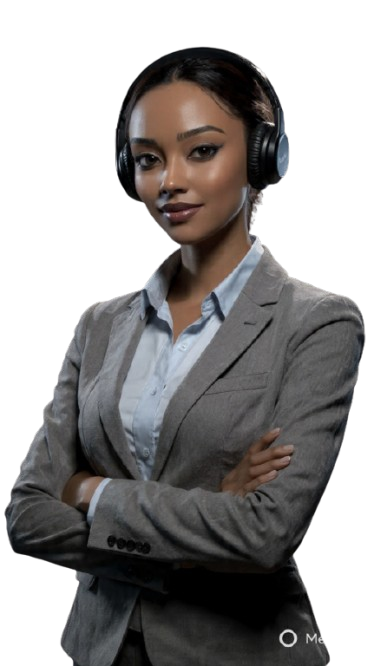
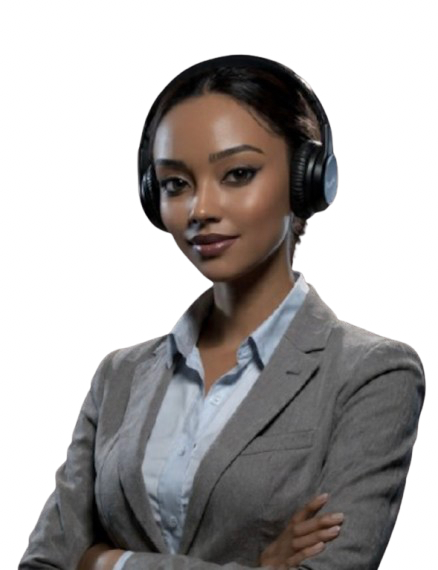
Fixed Ziva FBA image

diff --git a/frontend/src/app/product/[id]/page.tsx b/frontend/src/app/product/[id]/page.tsx
@@ -1676,50 +1676,51 @@ export default function ProductDetailPage() {
                     </div>
                 )}
 
-                {/* Similar Products */}
-                {similarProducts.length > 0 && (
+                <div className="mt-12 mb-8 space-y-12">
+                    <RecommendedProducts
+                        products={similarProducts.length > 0 ? similarProducts : allProducts.filter(p => p.id !== product?.id).slice(0, 4)}
+                        title="Similar Items in this Category"
+                        subtitle="Compare with related products"
+                        icon={<Zap className="h-5 w-5 text-ratel-orange" />}
+                    />
+                    <div className="flex justify-center mt-2 flex-col items-center w-full">
+                        {loadedMore && (
+                            <div className="grid grid-cols-2 md:grid-cols-3 xl:grid-cols-4 gap-4 md:gap-6 w-full mt-4 mb-4">
+                                {Array.from({ length: visibleProductsCount }).map((_, i) => {
+                                    // Filter extra products excluding similar products to prevent adjacent duplicates
+                                    const extraProducts = allProducts.filter(p => p.id !== product?.id && !similarProducts.some(s => s.id === p.id));
+
+                                    // If extraProducts is empty, fallback to similar products, or just allProducts
+                                    const sourceProducts = extraProducts.length > 0 ? extraProducts : allProducts;
+
+                                    const item = sourceProducts[i % sourceProducts.length];
+                                    return (
+                                        <div key={`${item.id}-${i}`} className="h-full">
+                                            <SearchGridCard product={item} />
+                                        </div>
+                                    );
+                                })}
+                            </div>
+                        )}
+
+                        <Button
+                            variant="outline"
+                            className="rounded-full justify-center items-center px-8 py-4 text-sm font-bold text-gray-700 hover:text-black hover:bg-gray-50 border-gray-200 hover:border-gray-300 shadow-sm transition-all"
+                            onClick={() => {
+                                if (!loadedMore) {
+                                    setLoadedMore(true);
+                                } else {
+                                    setVisibleProductsCount(prev => prev + 8);
+                                }
+                            }}
+                        >
+                            VIEW MORE <ChevronDown className="h-4 w-4 ml-2" />
+                        </Button>
+                    </div>
+                </div>
+
+                {alsoBoughtProducts.length > 0 && (
                     <div className="mt-12 mb-8 space-y-12">
-                        <RecommendedProducts
-                            products={similarProducts}
-                            title="Similar Items in this Category"
-                            subtitle="Compare with related products"
-                            icon={<Zap className="h-5 w-5 text-ratel-orange" />}
-                        />
-                        <div className="flex justify-center mt-2 flex-col items-center w-full">
-                            {loadedMore && (
-                                <div className="grid grid-cols-2 md:grid-cols-3 xl:grid-cols-4 gap-4 md:gap-6 w-full mt-4 mb-4">
-                                    {Array.from({ length: visibleProductsCount }).map((_, i) => {
-                                        // Filter extra products excluding similar products to prevent adjacent duplicates
-                                        const extraProducts = allProducts.filter(p => p.id !== product?.id && !similarProducts.some(s => s.id === p.id));
-
-                                        // If extraProducts is empty, fallback to similar products, or just allProducts
-                                        const sourceProducts = extraProducts.length > 0 ? extraProducts : allProducts;
-
-                                        const item = sourceProducts[i % sourceProducts.length];
-                                        return (
-                                            <div key={`${item.id}-${i}`} className="h-full">
-                                                <SearchGridCard product={item} />
-                                            </div>
-                                        );
-                                    })}
-                                </div>
-                            )}
-
-                            <Button
-                                variant="outline"
-                                className="rounded-full justify-center items-center px-8 py-4 text-sm font-bold text-gray-700 hover:text-black hover:bg-gray-50 border-gray-200 hover:border-gray-300 shadow-sm transition-all"
-                                onClick={() => {
-                                    if (!loadedMore) {
-                                        setLoadedMore(true);
-                                    } else {
-                                        setVisibleProductsCount(prev => prev + 8);
-                                    }
-                                }}
-                            >
-                                VIEW MORE <ChevronDown className="h-4 w-4 ml-2" />
-                            </Button>
-                        </div>
-
                         <RecommendedProducts
                             products={alsoBoughtProducts.slice(0, visibleCABCount)}
                             title="Customers Also Bought"
@@ -1739,15 +1740,17 @@ export default function ProductDetailPage() {
                                 </Button>
                             </div>
                         )}
-
-                        {/* You May Also Like — more products from the same or related categories */}
-                        <YouMayAlsoLike
-                            cartCategories={product?.category ? [product.category] : []}
-                            cartIds={new Set([product?.id].filter(Boolean) as string[])}
-                            title="You May Also Like"
-                        />
                     </div>
                 )}
+
+                <div className="mt-12 mb-8 space-y-12">
+                    {/* You May Also Like — more products from the same or related categories */}
+                    <YouMayAlsoLike
+                        cartCategories={product?.category ? [product.category] : []}
+                        cartIds={new Set([product?.id].filter(Boolean) as string[])}
+                        title="You May Also Like"
+                    />
+                </div>
 
                 <NegotiationModal
                     isOpen={isNegotiationOpen}

diff --git a/frontend/src/app/category/[slug]/page.tsx b/frontend/src/app/category/[slug]/page.tsx
@@ -11,6 +11,7 @@ import { Navbar } from "@/components/layout/Navbar";
 import { Footer } from "@/components/layout/Footer";
 import Link from "next/link";
 import { cn } from "@/lib/utils";
+import { YouMayAlsoLike } from "@/components/product/YouMayAlsoLike";
 
 const MIN_PRICE = 0;
 const MAX_PRICE = 2000000;
@@ -228,6 +229,13 @@ export default function CategoryPage() {
                             </div>
                         </div>
                     )}
+
+                    <div className="mt-16 mb-8">
+                        <YouMayAlsoLike
+                            cartCategories={slug !== 'all' && slug !== 'verified' ? [slug] : []}
+                            title="More Suggestions For You"
+                        />
+                    </div>
                 </div>
             </main>
 

diff --git a/frontend/src/components/modals/NegotiationModal.tsx b/frontend/src/components/modals/NegotiationModal.tsx
@@ -35,9 +35,9 @@ export function NegotiationModal({ isOpen, onClose, product, priceComparison }: 
     const { startConversation, openMessageBox } = useMessages();
 
     // Max negotiation discount — admin-configurable via SystemSettings.
-    // Default: 10% means users cannot offer less than 90% of the listing price.
+    // Default: 5% means users cannot offer less than 95% of the listing price.
     const maxDiscountPct = (typeof window !== "undefined" && localStorage.getItem("fp_max_negotiation_discount"))
-        ? Number(localStorage.getItem("fp_max_negotiation_discount")) : 10;
+        ? Number(localStorage.getItem("fp_max_negotiation_discount")) : 5;
     const minAllowedPrice = Math.round(product.price * (1 - maxDiscountPct / 100));
 
     const handleAnalyze = async () => {

diff --git a/frontend/src/components/ui/logo.tsx b/frontend/src/components/ui/logo.tsx
@@ -18,7 +18,7 @@ export function Logo({ className, variant = "light", hideTextMobile = false }: L
                 <span className={cn("text-xl font-black tracking-tight leading-none", variant === "light" ? "text-white" : "text-brand-green-900")}>
                     FairPrice.ng
                 </span>
-                <span className={cn("text-[10px] font-bold font-white text-white italic uppercase tracking-widest opacity-75", variant === "light" ? "text-yellow-400" : "text-yellow-400")}>
+                <span className={cn("text-[10px] font-bold text-yellow-900 italic py-1.5 uppercase tracking-widest opacity-75", variant === "light" ? "text-yellow" : "text-yellow")}>
                     Never overpay again!        </span>
             </div>
         </Link>

diff --git a/frontend/capacitor.config.ts b/frontend/capacitor.config.ts
@@ -1,3 +1,4 @@
+import { KeyboardResize } from "@capacitor/keyboard";
 import type { CapacitorConfig } from "@capacitor/cli";
 
 // ─── FairPrice Capacitor Configuration ─────────────────────
@@ -71,7 +72,7 @@ const config: CapacitorConfig = {
       backgroundColor: "#059669",       // Android status bar color
     },
     Keyboard: {
-      resize: "body",                   // Resize WebView when keyboard opens
+      resize: KeyboardResize.Body,      // Resize WebView when keyboard opens
       resizeOnFullScreen: true,
     },
     PushNotifications: {
